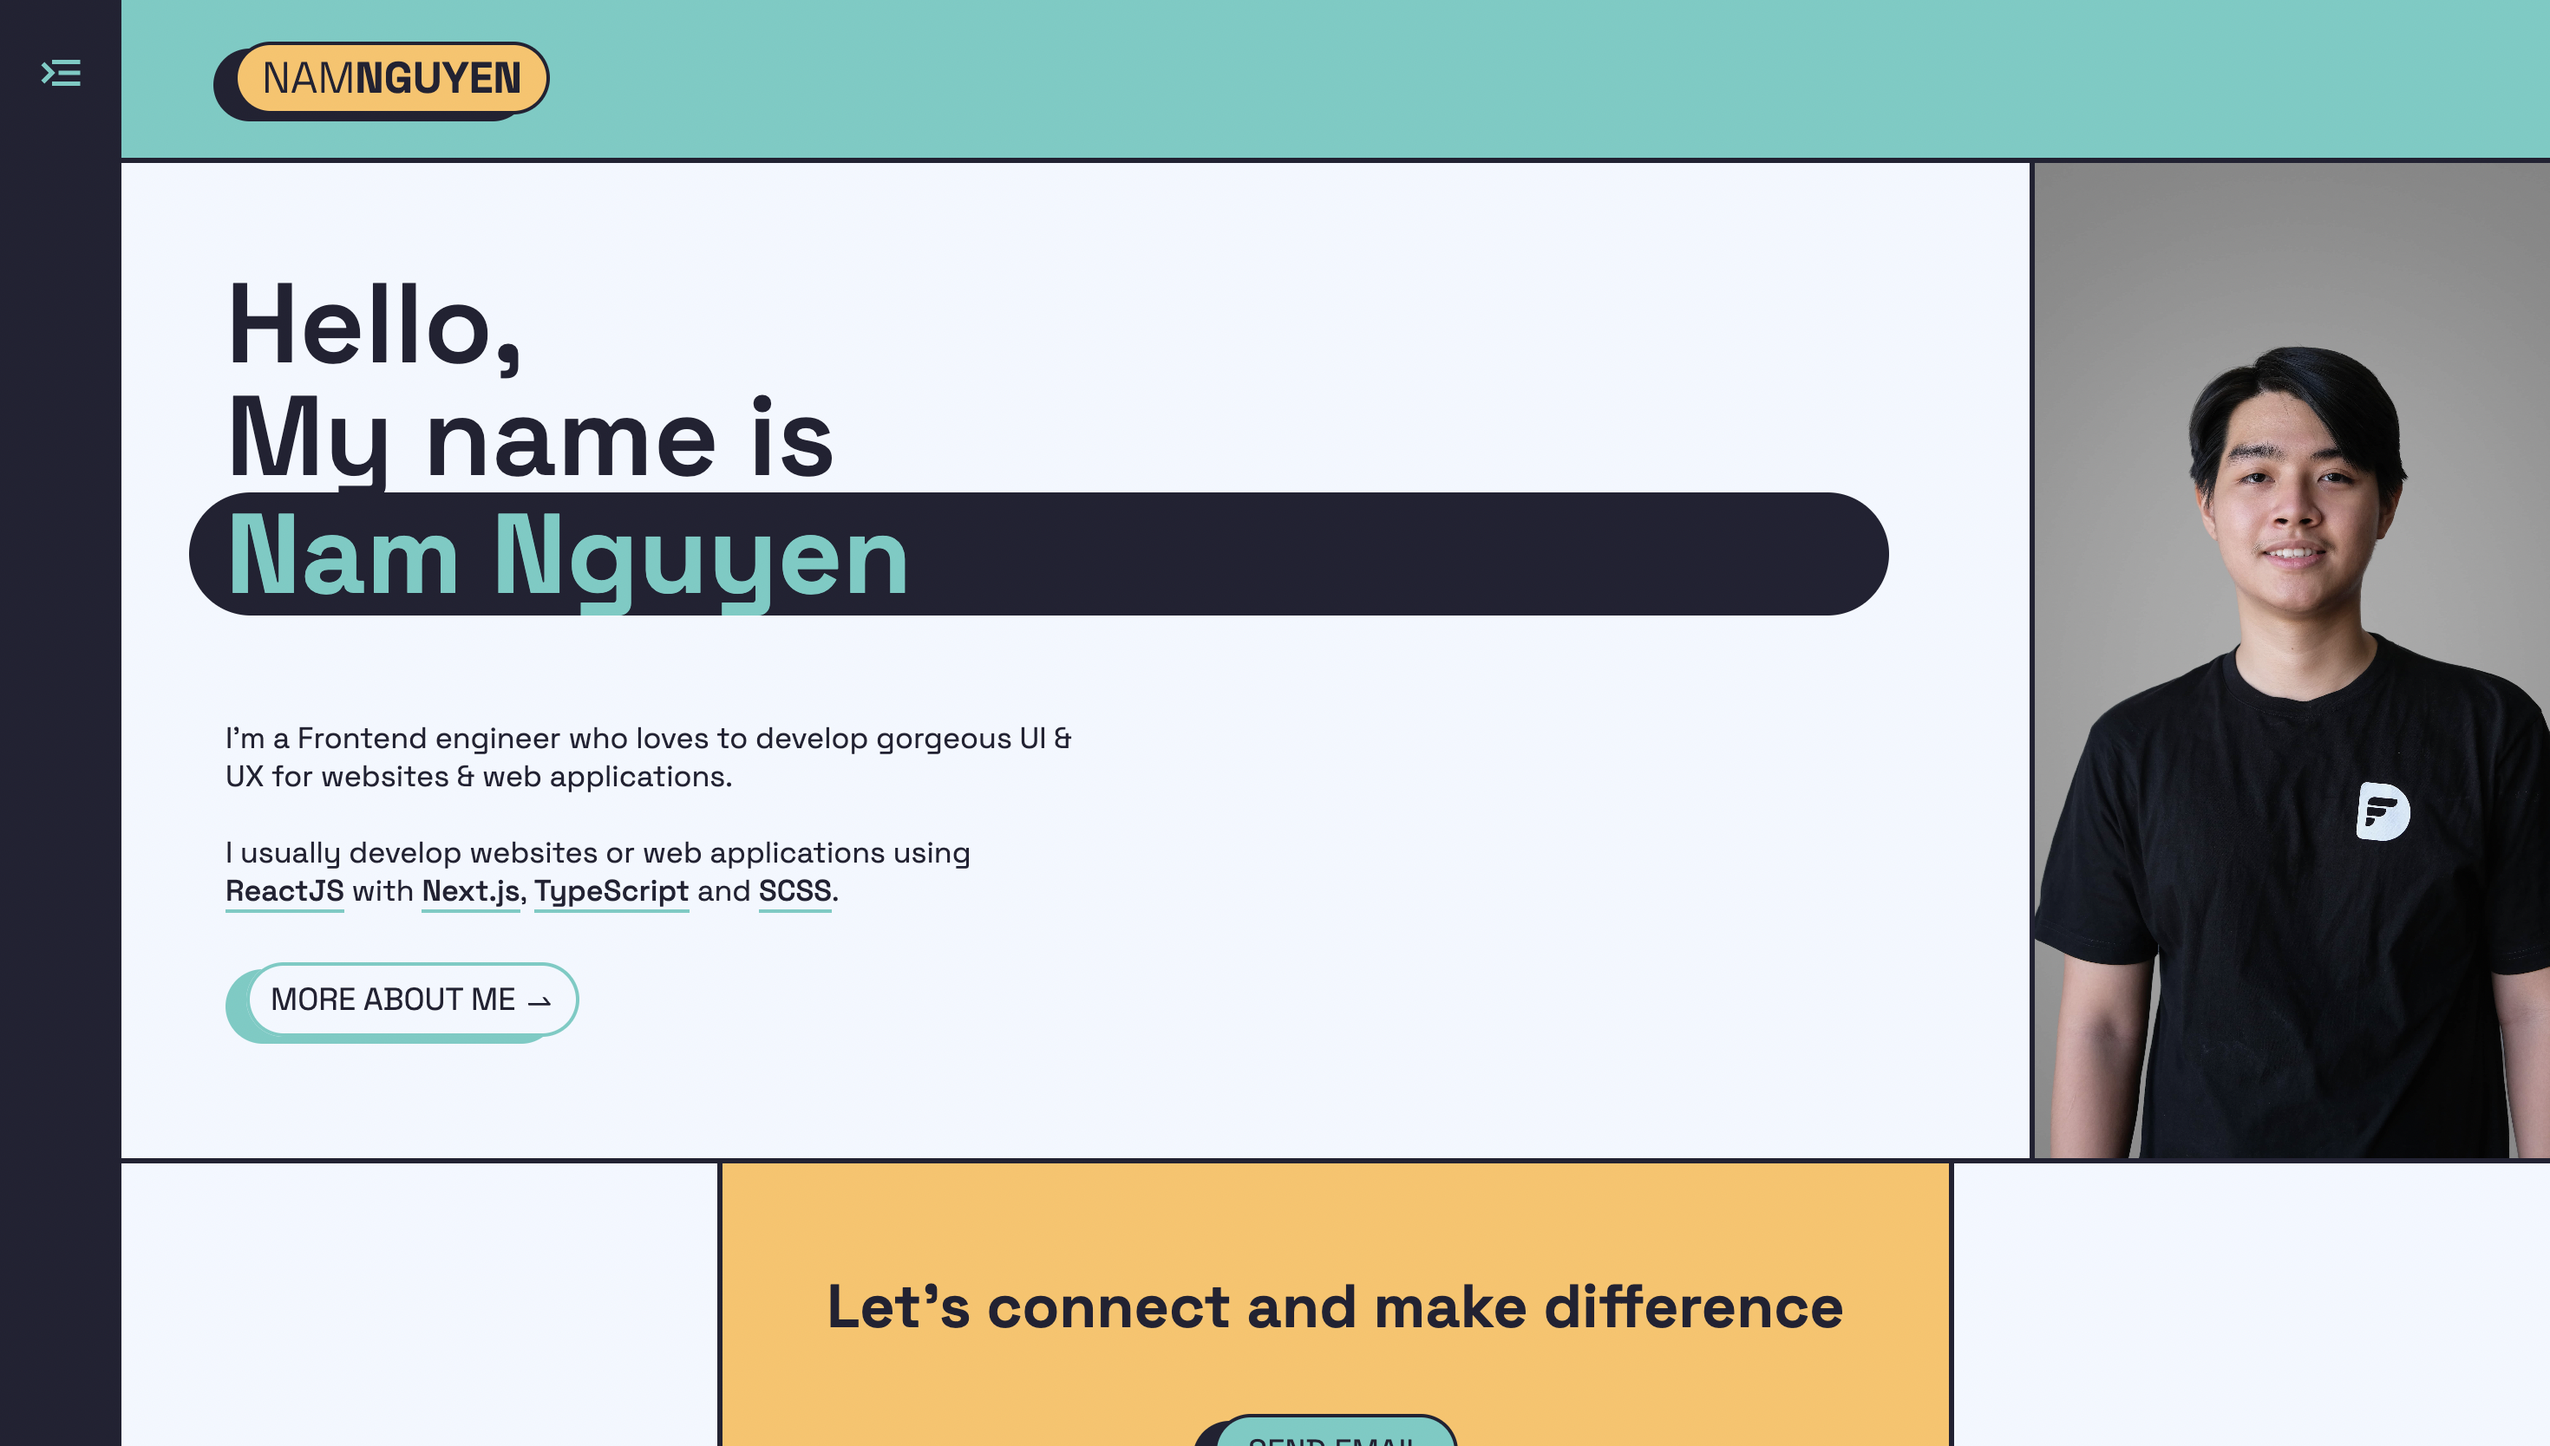
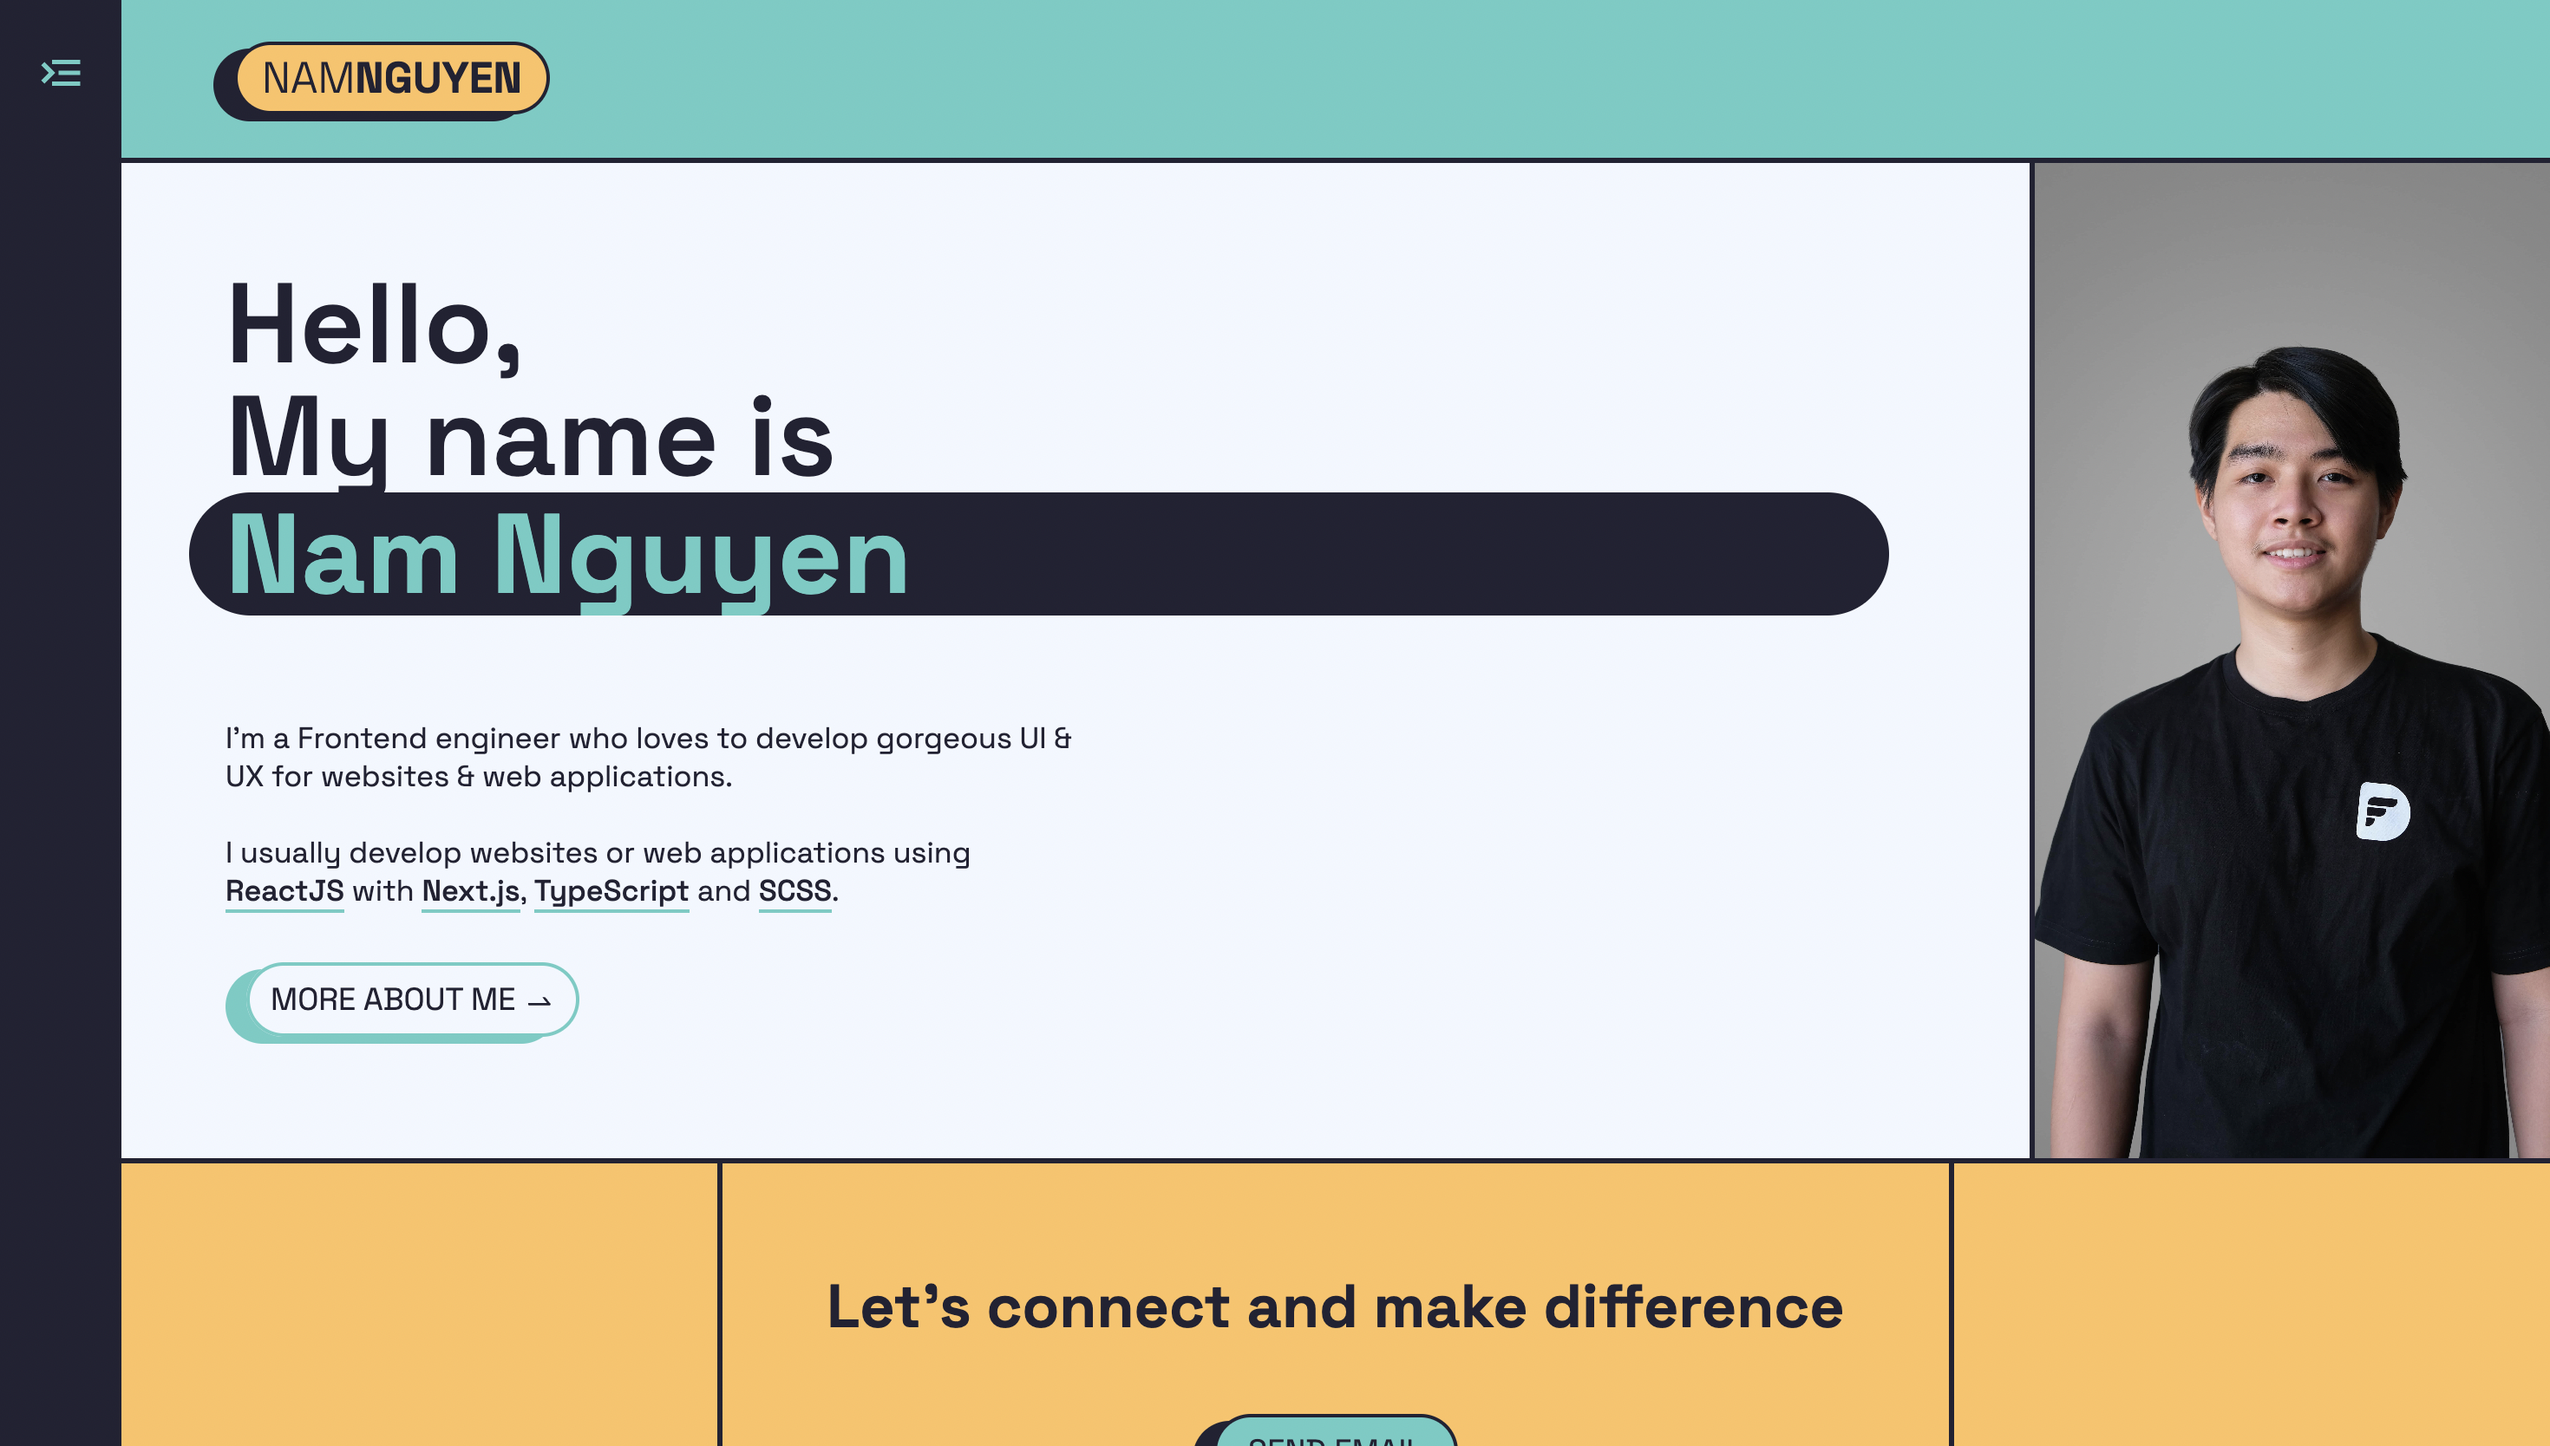
feat: update spacing and color (#12)

Changed region(s): [[0.7429, 0.7794, 1.0, 1.0], [0.031, 0.7794, 0.2786, 1.0]]

diff --git a/pages/about.js b/pages/about.js
@@ -36,10 +36,10 @@ const Content = styled.div`
   width: calc(100vw - 70px);
   display: flex;
   & > div {
-    padding: 30px;
+    padding: 30px 65px;
     width: 60vw;
     border-left: 3px solid ${theme.colors.darkBlue};
-    @media (max-width: 800px) {
+    @media (max-width: 991px) {
       padding: 25px 25px 40px 25px;
       width: 100%;
     }
@@ -48,19 +48,24 @@ const Content = styled.div`
     border-left: none;
     width: 380px;
     padding: 0px;
-    @media (max-width: 800px) {
+    @media (max-width: 991px) {
       width: 100%;
     }
   }
   border-bottom: 3px solid ${theme.colors.darkBlue};
-  @media (max-width: 800px) {
+  @media (max-width: 991px) {
     width: 100vw;
     flex-direction: column;
-    & > span img {
-      object-position: top !important;
-    }
     & > div {
       border-left: 0px solid ${theme.colors.darkBlue};
+    }
+    & > div img {
+      object-position: top !important;
+      border-bottom: 3px solid ${theme.colors.darkBlue};
+    }
+    & > div:first-of-type {
+      border-left: 0px solid ${theme.colors.darkBlue};
+      height: 280px;
     }
   }
 `;
@@ -106,10 +111,10 @@ const Description = styled.div`
 
 const JourneySection = styled.div`
   background-color: ${theme.colors.secondary};
-  padding: 30px;
+  padding: 30px 65px;
   border-bottom: 3px solid ${theme.colors.darkBlue};
   @media (max-width: 800px) {
-    padding: 25px;
+    padding: 25px 25px 40px 25px;
   }
 `;
 
@@ -188,16 +193,15 @@ const LogoRow = styled(Row)`
 const TechStackSection = styled.div`
   display: flex;
   justify-content: space-around;
+  background-color: ${theme.colors.shadow};
   & > div {
     width: 850px;
-    background-color: ${theme.colors.secondary};
-    padding: 30px;
+    background-color: ${theme.colors.shadow};
+    padding: 30px 65px;
     border-left: 3px solid ${theme.colors.darkBlue};
     border-right: 3px solid ${theme.colors.darkBlue};
     @media (max-width: 800px) {
       padding: 25px 25px 40px 25px;
-      border-left: 0px solid ${theme.colors.darkBlue};
-      border-right: 0px solid ${theme.colors.darkBlue};
     }
   }
   & p {
@@ -233,7 +237,7 @@ const SectionTitle = styled(Title)`
 const Links = styled.div`
   & > * {
     font-size: 45px;
-    color: ${theme.colors.shadow};
+    color: ${theme.colors.darkBlue};
     background-clip: text;
     margin: 0 15px;
     @media (max-width: 800px) {
@@ -247,12 +251,13 @@ const ViewMore = styled.div`
   margin: 28px 0 12px;
   transform: translateX(12px);
   & a {
+    background-color: ${theme.colors.primary};
     color: ${theme.colors.darkBlue};
     border-radius: 100px;
     font-size: 18px;
     cursor: pointer;
-    border: 2px solid ${theme.colors.primary};
-    box-shadow: -12px 4px 0 ${theme.colors.primary};
+    border: 2px solid ${theme.colors.darkBlue};
+    box-shadow: -12px 4px 0 ${theme.colors.darkBlue};
     padding: 8px 12px;
     text-transform: uppercase;
     @media (max-width: 800px) {
@@ -304,7 +309,7 @@ export default function About() {
     !isSSR && (
       <div>
         <Head>
-          <title>About - Nam Nguyen</title>
+          <title>About | Nam Nguyen</title>
           <meta name="description" content="About me" />
           <link rel="icon" href="/favicon.ico" />
         </Head>
@@ -346,7 +351,7 @@ export default function About() {
                         <HighLight>ReactJS</HighLight> with{" "}
                         <HighLight>Next.js</HighLight>,{" "}
                         <HighLight>TypeScript</HighLight> and{" "}
-                        <HighLight>TailwindCSS</HighLight>.
+                        <HighLight>SCSS</HighLight>.
                         <br />
                         <br />
                         I&rsquo;m also focusing on my personal project,{" "}
@@ -415,7 +420,25 @@ export default function About() {
                           />
                         </a>
                       </HighLight>
-                      , <HighLight>SCSS</HighLight> and{" "}
+                      , <HighLight>SCSS</HighLight>,{" "}
+                      <HighLight>
+                        <a
+                          href="https://eslint.org/"
+                          rel="noreferrer"
+                          target="_blank"
+                        >
+                          ESLint
+                          <Icon
+                            icon="mdi:link"
+                            style={{
+                              fontSize: 20,
+                              verticalAlign: "sub",
+                              marginLeft: 2,
+                            }}
+                          />
+                        </a>
+                      </HighLight>{" "}
+                      and{" "}
                       <HighLight>
                         <a
                           href="https://mui.com/"

diff --git a/pages/projects.js b/pages/projects.js
@@ -35,7 +35,7 @@ const Content = styled.div`
   background-color: ${theme.colors.secondary};
   width: calc(100vw - 70px);
   & > div {
-    padding: 30px;
+    padding: 30px 65px;
     @media (max-width: 800px) {
       padding: 25px 25px 40px 25px;
       width: 100%;
@@ -90,6 +90,7 @@ const ViewMore = styled.div`
   margin-top: 30px;
   transform: translateX(12px);
   & a {
+    // background-color: ${theme.colors.shadow};
     color: ${theme.colors.darkBlue};
     border-radius: 100px;
     font-size: 18px;
@@ -125,16 +126,20 @@ const ProjectsContainer = styled.div`
     }
   }
   @media (max-width: 991px) {
-    padding: 0px 25px 50px !important;
+    padding: 0px 65px 50px !important;
     gap: 40px;
     & > div {
       width: 100% !important;
     }
   }
+  @media (max-width: 800px) {
+    padding: 0px 25px 50px !important;
+  }
 `;
 
 const ProjectCard = styled.div`
   border: 2px solid ${theme.colors.darkBlue};
+  background-color: ${theme.colors.primary};
   box-shadow: -12px 4px 0 ${theme.colors.darkBlue};
   border-radius: 30px;
   overflow: hidden;
@@ -168,7 +173,7 @@ const ProjectCard = styled.div`
 const ProjectTitle = styled.div`
   font-size: 21px;
   font-weight: 600;
-  color: ${theme.colors.primary};
+  color: ${theme.colors.darkBlue};
   & > a:hover {
     color: ${theme.colors.shadow};
   }
@@ -183,14 +188,18 @@ const ProjectDescription = styled.div`
   @media (max-width: 800px) {
     font-size: 15px;
   }
+  & span {
+    border-color: ${theme.colors.shadow} !important;
+  }
 `;
 
 const ProjectTags = styled.div`
-  background-color: ${theme.colors.secondary};
-  color: ${theme.colors.primary};
+  background-color: ${theme.colors.primary};
+  color: ${theme.colors.secondary};
   border-radius: 100px;
   font-size: 15px;
-  border: 2px solid ${theme.colors.primary};
+  font-weight: 500;
+  border: 2px solid ${theme.colors.secondary};
   padding: 6px 8px;
   margin-right: 10px;
   margin-top: 10px;
@@ -432,7 +441,7 @@ export default function Projects() {
     !isSSR && (
       <div>
         <Head>
-          <title>Projects - Nam Nguyen</title>
+          <title>Projects | Nam Nguyen</title>
           <meta name="description" content="My projects" />
           <link rel="icon" href="/favicon.ico" />
         </Head>
@@ -448,7 +457,7 @@ export default function Projects() {
                       <span>Projects</span>
                     </Title>
                     <Description>
-                      <p>Some of my open sources and projects.</p>
+                      <p>Some of my open sources and personal projects.</p>
                     </Description>
                     <ViewMore>
                       <a

diff --git a/pages/contact.js b/pages/contact.js
@@ -35,7 +35,7 @@ const Content = styled.div`
   display: flex;
   justify-content: space-between;
   & > div:first-child {
-    padding: 30px;
+    padding: 30px 65px;
     width: 60vw;
     @media (max-width: 800px) {
       padding: 25px 25px 40px 25px;
@@ -141,7 +141,7 @@ export default function Contact() {
     !isSSR && (
       <div>
         <Head>
-          <title>Contact - Nam Nguyen</title>
+          <title>Contact | Nam Nguyen</title>
           <meta name="description" content="Contact me" />
           <link rel="icon" href="/favicon.ico" />
         </Head>

diff --git a/pages/index.js b/pages/index.js
@@ -144,6 +144,7 @@ const ViewMore = styled.div`
 const ContactSection = styled.div`
   display: flex;
   justify-content: space-around;
+  background-color: ${theme.colors.shadow};
   & > div {
     max-width: 750px;
     background-color: ${theme.colors.shadow};
